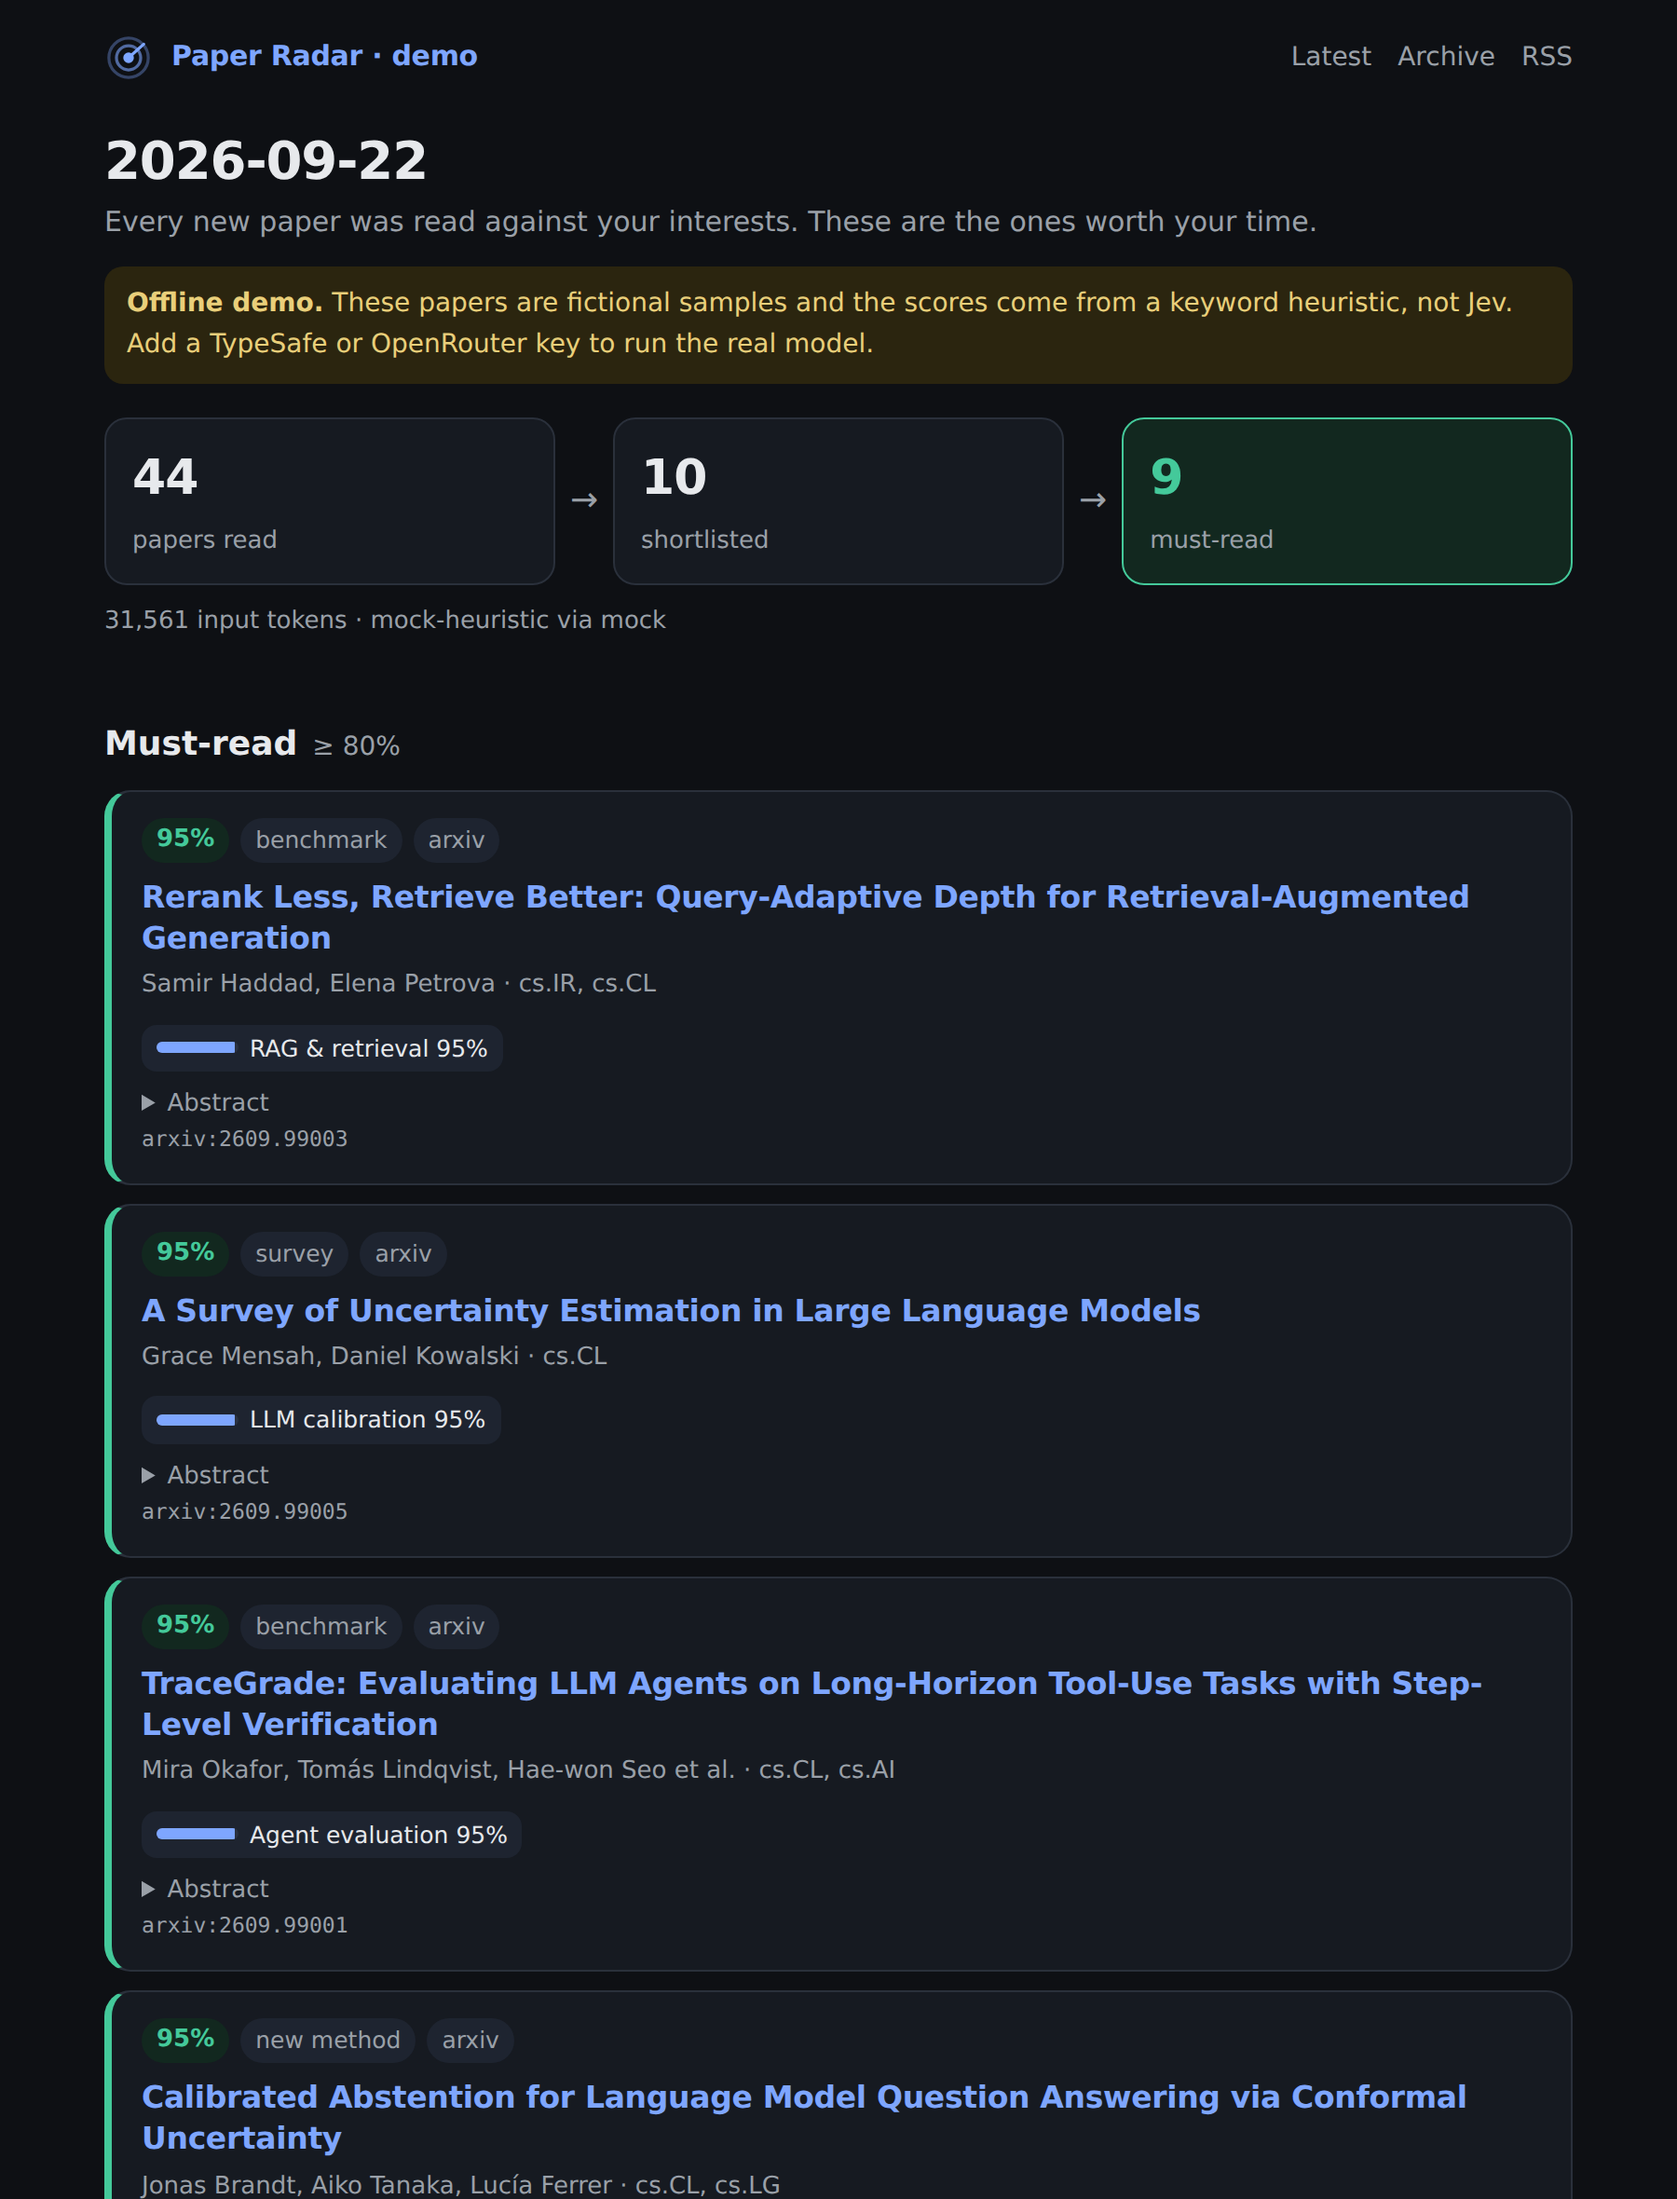
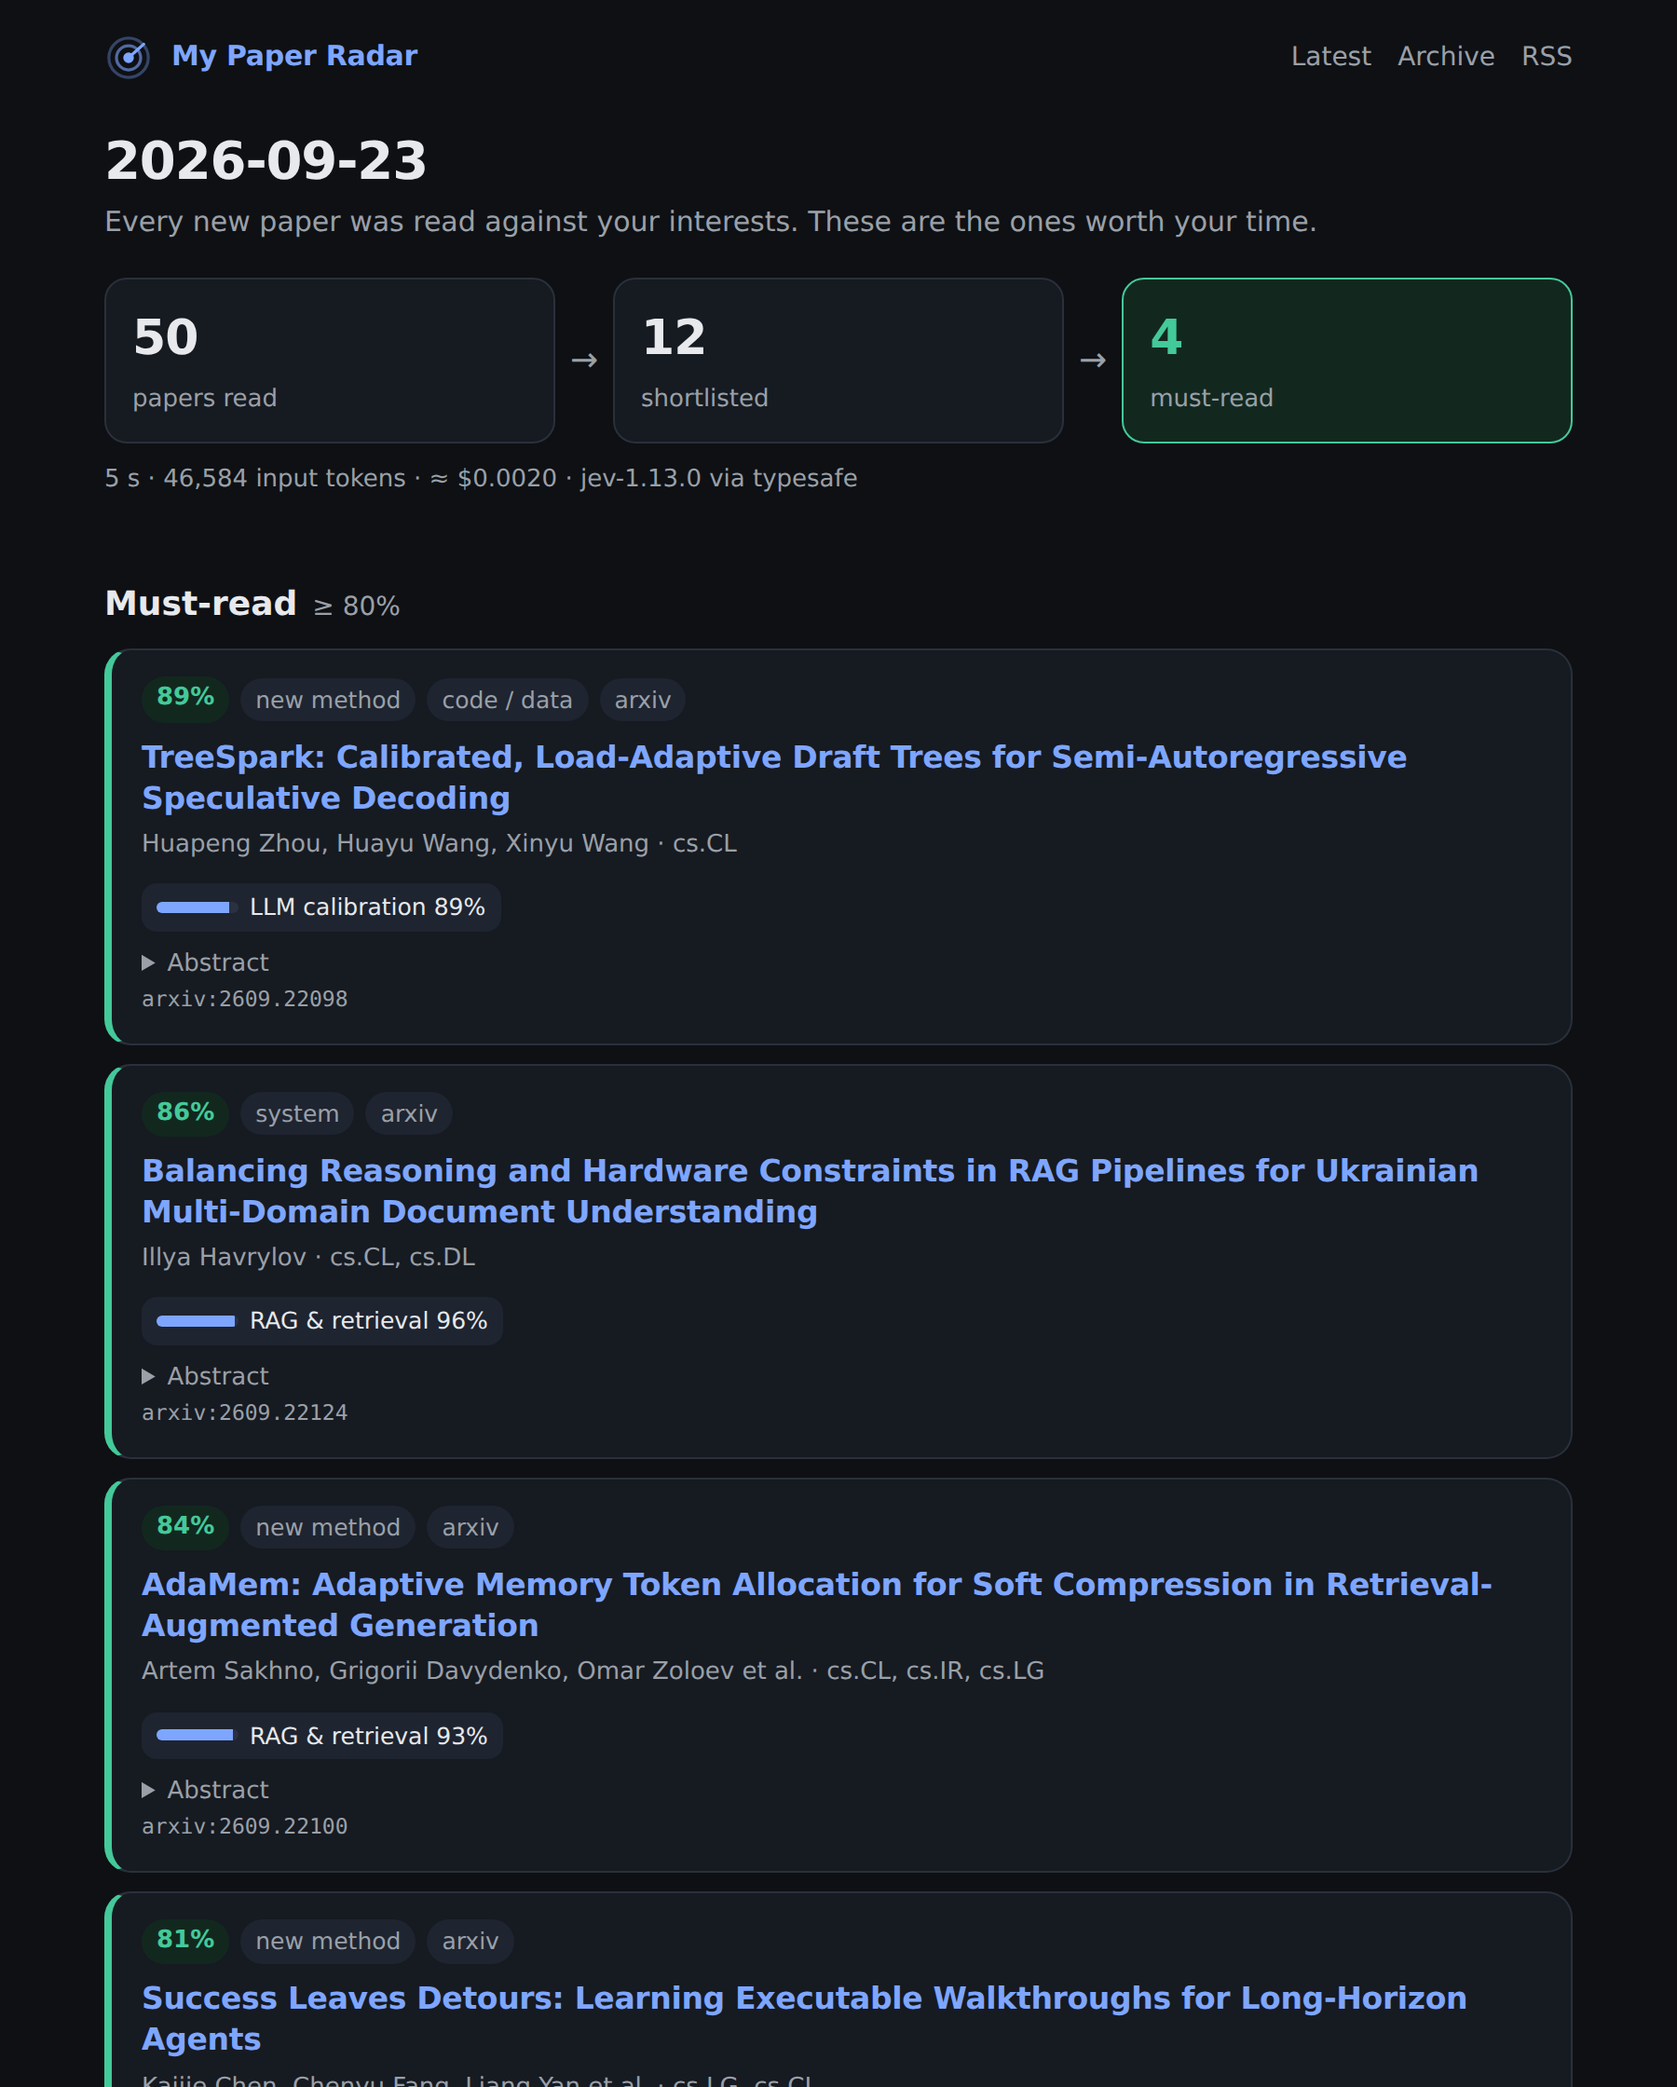
Real-data hero image and launch checklist

diff --git a/docs/LAUNCH.zh-TW.md b/docs/LAUNCH.zh-TW.md
@@ -1,0 +1,123 @@
+# 發布清單：怎麼讓 Paper Radar 被看見
+
+星星來自三件事的乘積：**東西有用 × 有人看到 × 一眼就相信它能動**。第三點最常被忽略——大部分 repo 死在「看起來不錯，但我不確定它真的會跑」。
+
+時機上，Jev 在 2026-09-15 上線，awesome 清單每天都在更新，這個窗口大概只有兩三週。
+
+---
+
+## 第 0 層：發布前一定要做（約 1 小時）
+
+沒做完這層就去宣傳，流量會白白流掉。
+
+### 1. repo 外觀（5 分鐘，影響最大的 5 分鐘）
+
+到 repo 首頁右上角齒輪（About）填：
+
+- **Description**：
+  `Let Jev read every new arXiv paper each morning and surface the few you should read. Plain-English interests, calibrated probabilities, ~$0.06/day, fork and go.`
+- **Website**：`https://eliot5566.github.io/JEV-Paper-Radar/`
+- **Topics**（GitHub 搜尋和推薦都吃這個）：
+  `jev` `typesafe` `system-one` `arxiv` `research-tools` `paper-recommendation` `literature-review` `github-actions` `rss` `llm` `python` `biorxiv`
+
+### 2. 首圖與首屏（已完成）
+
+- README 第一眼就是真實執行的截圖 + 真實數字（5 秒 / $0.002 / 50 篇）✅
+- 表格用「讀完全部 vs 只讀 top-k」當賣點 ✅
+
+### 3. 降低第一道門檻
+
+訪客最常卡在「我沒有 TypeSafe 金鑰」。README 的 Quick start 已經同時給了 OpenRouter（免排隊）和 `paper-radar demo`（免金鑰）。宣傳文案裡也要提一句，不然一半的人會直接關掉。
+
+### 4. 一支 20～30 秒的錄影
+
+比任何文字都有效。錄製內容：
+
+1. 終端機跑 `paper-radar run`，畫面上跑完 N 篇
+2. 切到瀏覽器，顯示漏斗數字（讀 N 篇 → 入選 M → 必讀 K、花費 $0.0x）
+3. 捲過必讀清單，秀出每篇的「命中哪條興趣、機率多少」
+
+用 ScreenToGif 或 Windows 內建的錄影都可以，輸出 GIF 放進 README 首圖下方。
+
+---
+
+## 第 1 層：發布日（集中在同一天，效果會疊加）
+
+### awesome 清單 PR（最高投報率）
+
+Jev 生態的 awesome 清單正在密集更新，收錄門檻低、流量真實。一次發 8 個 PR：
+
+| repo | 放在哪一節 |
+|---|---|
+| AbdelStark/awesome-typesafe-jev | Applications & Workflows |
+| walidboulanouar/awesome-jev-use-cases | Research & Data |
+| cobanov/awesome-jev | Projects |
+| yibie/awesome-jev | Projects |
+| Anil-matcha/awesome-jev-by-typesafe | Use cases |
+| AnotiaWang/awesome-jev | Applications |
+| v-modal/awesome-jev-tools | Tools |
+| awesomejev.com | 用站上的 Suggest 表單 |
+
+PR 內容一行就好：
+
+```
+- [Paper Radar](https://github.com/Eliot5566/JEV-Paper-Radar) — Reads every new arXiv/bioRxiv paper each morning against plain-English interests and publishes a daily page + RSS. 50 papers in 5s for $0.002; all of arXiv ≈ $0.06/day. Fork-and-go GitHub Action, zero dependencies.
+```
+
+### Hacker News
+
+- 標題：`Show HN: Paper Radar – Jev reads every new arXiv paper daily for ~6 cents`
+- 送出時間：台灣時間 21:00～23:00（美西早上）
+- 第一則留言由自己補上：為什麼不用 embedding 預篩、成本怎麼算出來的、Jev 的限制（照字面讀、不會算數）、以及 `calibrate` 為什麼存在
+
+誠實講限制反而加分，HN 讀者對誇大非常敏感。
+
+### X / Twitter
+
+一則帶影片的貼文，tag `@typesafeai`（官方在發表文裡邀請開發者回報使用情境，社群專案常被轉推）：
+
+```
+Jev read all of today's new arXiv papers in my fields and picked the 4 I should actually read.
+
+5 seconds. $0.002. Nothing pre-filtered by embeddings — every paper gets judged.
+
+Fork the repo, write your interests in plain English, add a key. Runs on GitHub Actions, publishes a page + RSS.
+```
+
+### Reddit
+
+- r/MachineLearning，標題前綴 `[P]`
+- r/bioinformatics（主打 bioRxiv / medRxiv 那條線）
+- 兩邊都要遵守版規：先講做了什麼、怎麼做的、限制是什麼，連結放最後
+
+### TypeSafe Discord
+
+`show-and-tell` 頻道貼影片 + 連結。官方團隊會看，被官方轉推一次抵過幾十則自己的貼文。
+
+### 中文社群
+
+知乎、V2EX、即刻、小紅書；台灣可用 Threads。README 已有英文與繁中，可再補一份簡中版。
+
+---
+
+## 第 2 層：發布後 30 天（維持熱度）
+
+- **good first issues**：PubMed 來源、Hugging Face Daily Papers 來源、LINE 通知、各領域 profile。標好 `good first issue`，貢獻者會自己找上門，每個貢獻者也會幫忙宣傳
+- **profiles/ 徵集**：發一則「把你的領域設定檔 PR 上來」，門檻低、參與感高
+- **Radar Weekly**：每週整理一次本週各領域的熱門論文並發文，持續曝光
+- **第二波話題：群眾外包的 Jev 獨立校準報告**。邀請使用者分享 `paper-radar calibrate` 的結果，彙整成「Jev 在 N 個學科上的獨立校準評估」。Jev 目前最大的爭議就是官方數據沒有第三方驗證，這份報告本身就有新聞價值，而且只有這個專案做得出來
+
+---
+
+## 還沒做但值得做的兩件事
+
+1. **公開的 demo radar**：每天自動更新一頁「cs.AI 今日雷達」，讓沒有金鑰的訪客直接看到價值。這是轉換率最高的資產，也是社群媒體每天可以貼的素材。
+2. **一鍵 👍/👎**：頁面上的按鈕開一個預填的 GitHub Issue，自動收集標註餵給 `calibrate`。這讓「校準到你自己」從功能變成習慣。
+
+---
+
+## 怎麼衡量
+
+- **fork 數比星數更能反映真實使用**（每個使用者都必須 fork 才能用）
+- 前 48 小時的星數成長曲線決定後續能不能進 GitHub Trending
+- 真正的成功指標是一週後還在每天自動跑的 fork 數量

diff --git a/README.md b/README.md
@@ -8,9 +8,9 @@ Plain-English interests · calibrated probabilities · about 6 cents a day for *
 
 [Quick start](#quick-start-5-minutes-no-server) · [Try the demo](#try-it-in-10-seconds) · [How it works](#how-it-works) · [繁體中文](README.zh-TW.md)
 
-<img src="docs/demo.png" width="720" alt="Paper Radar daily page: 44 papers read, 10 shortlisted, 9 must-read">
+<img src="docs/demo.png" width="720" alt="Paper Radar daily page: 50 papers read, 12 shortlisted, 4 must-read">
 
-<sub>Screenshot of the offline demo (fictional papers, mock model). Your page shows real papers scored by Jev.</sub>
+<sub>A real run: 50 new arXiv papers judged by Jev in 5 seconds for $0.002. No key? <code>paper-radar demo</code> shows the same page offline.</sub>
 
 </div>
 
@@ -28,7 +28,7 @@ Paper Radar takes a different route. Every new paper gets **judged** against the
 | Thresholds you can tune and check | ❌ | ❌ | ❌ | ✅ `calibrate` |
 | Cost to read all of arXiv daily | free | free after setup | higher: you pay for generated text | **≈ $0.06 per day\*** |
 
-<sub>\* Estimate: ~1,500 papers × ~1,000 input tokens × $0.042 per million tokens (output tokens are free). Every run logs the exact tokens and cost in `data/runs.jsonl`. Run `paper-radar check` to estimate your own profile.</sub>
+<sub>\* Measured, not guessed: a real run on 2026-09-23 read 50 papers in 5 seconds for 46,584 input tokens and $0.0020 (932 tokens per paper, `jev-1.13.0`). All of arXiv, about 1,500 papers per weekday, works out to roughly $0.06 a day. Output tokens are free. Every run logs its own tokens and cost in `data/runs.jsonl`; `paper-radar check` estimates your profile before you spend anything.</sub>
 
 ## What you get every morning
 

diff --git a/README.zh-TW.md b/README.zh-TW.md
@@ -6,11 +6,11 @@
 
 用白話寫興趣 · 校準過的機率 · 讀完*整個* arXiv 一天約 6 美分 · Fork 即用，不需要伺服器
 
-[English](README.md) · [專案企劃](docs/PLAN.zh-TW.md)
+[English](README.md) · [專案企劃](docs/PLAN.zh-TW.md) · [發布清單](docs/LAUNCH.zh-TW.md)
 
 <img src="docs/demo.png" width="720" alt="Paper Radar 每日頁面">
 
-<sub>離線 demo 截圖（虛構論文、模擬模型）。實際使用時是 Jev 評分的真實論文。</sub>
+<sub>真實執行結果：Jev 在 5 秒內讀完 50 篇當日 arXiv 新論文，花費 $0.002。沒有金鑰也可以用 <code>paper-radar demo</code> 看到同樣的頁面。</sub>
 
 </div>
 
